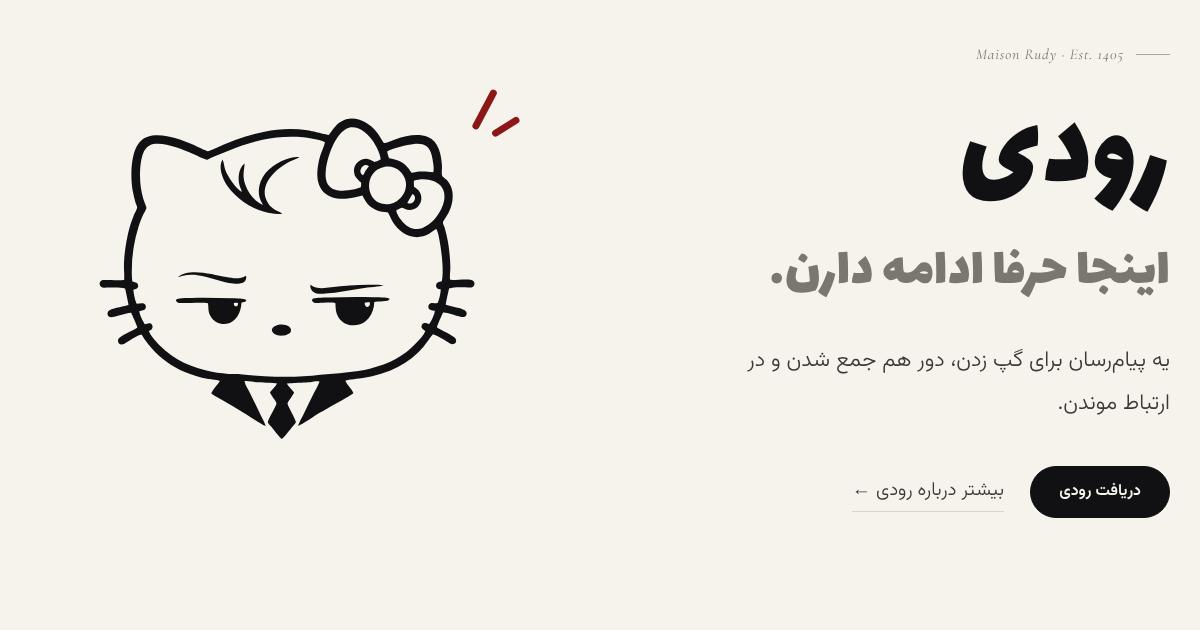
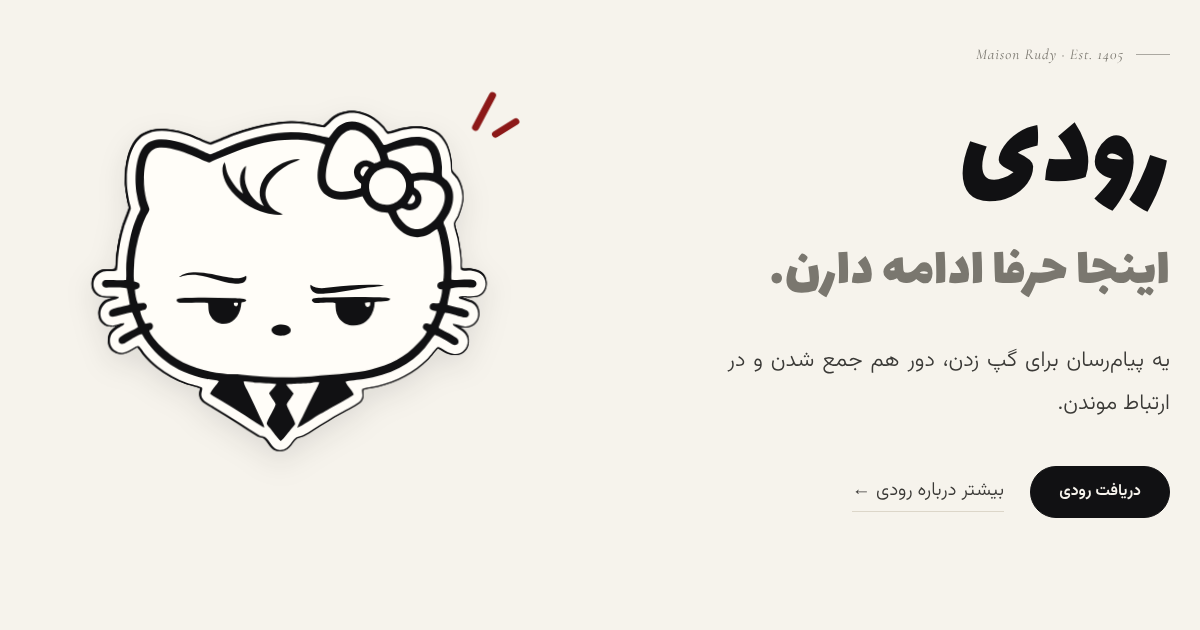
Centre the hero on small screens and show Rudy as a sticker

diff --git a/css/style.css b/css/style.css
@@ -11,8 +11,8 @@
   --bow: #800000;
   --gold: #b08d57;
   --on-ink: #f6f3ec;
-  --cat-fill: var(--paper);
-  --cat-line: var(--ink);
+  --cat-fill: #fffdf8;
+  --cat-line: #111113;
   --shadow: 0 40px 80px -48px rgba(17, 17, 19, .35);
 
   --display: "Lalezar", "Vazirmatn", serif;
@@ -406,4 +406,34 @@ body.shake main { animation: shake .4s linear 2; }
 }
 @media (max-width: 600px) {
   .hero { padding-block: 8px 44px; }
+}
+
+/* Rudy as a sticker: white face and edge in every mode; a thin ink rim in light mode */
+.hero .cat svg {
+  filter: drop-shadow(1.2px 0 0 var(--sticker-rim)) drop-shadow(-1.2px 0 0 var(--sticker-rim))
+          drop-shadow(0 1.2px 0 var(--sticker-rim)) drop-shadow(0 -1.2px 0 var(--sticker-rim))
+          drop-shadow(0 10px 14px rgba(17, 17, 19, .10));
+}
+:root { --sticker-rim: #111113; }
+@media (prefers-color-scheme: dark) { :root:not([data-theme="light"]) { --sticker-rim: transparent; } }
+:root[data-theme="dark"], :root.black-tie { --sticker-rim: transparent; }
+
+/* stacked hero: centred copy, small sticker underneath */
+@media (max-width: 900px) {
+  .hero { text-align: center; justify-items: center; gap: 20px; }
+  .hero-copy { margin-inline: auto; }
+  .hero .eyebrow { justify-content: center; }
+  .hero .eyebrow::before { display: none; }
+  .hero .lede { text-align: center; margin-inline: auto; max-width: 30ch; }
+  .hero .ctas { justify-content: center; }
+  .hero > .portrait { display: block; width: 200px; margin-top: 8px; }
+  .hero { padding-block: 16px 40px; }
+}
+@media (max-width: 600px) {
+  .hero > .portrait { width: 170px; }
+  .hero { padding-block: 8px 28px; }
+}
+@media (max-width: 600px) {
+  .hero { padding-bottom: 8px; }
+  .hero + .about { padding-top: 40px; }
 }
